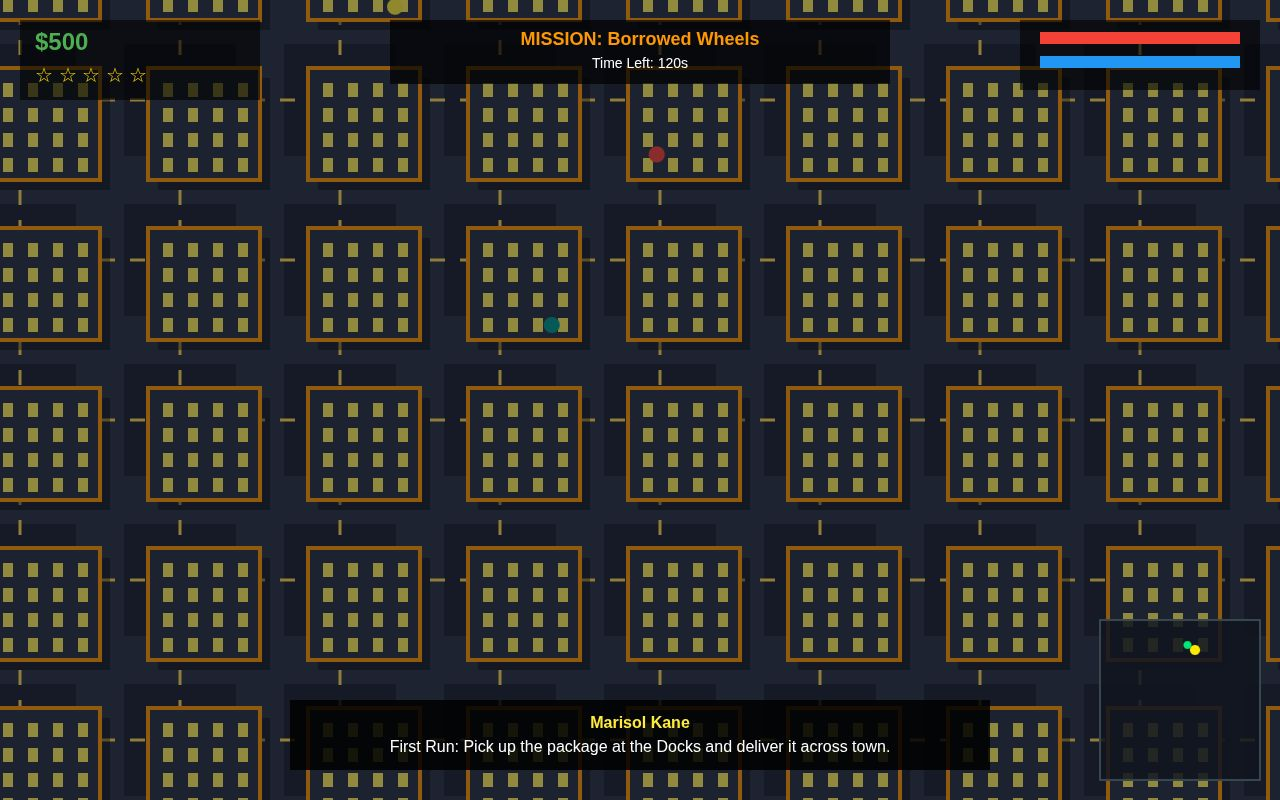
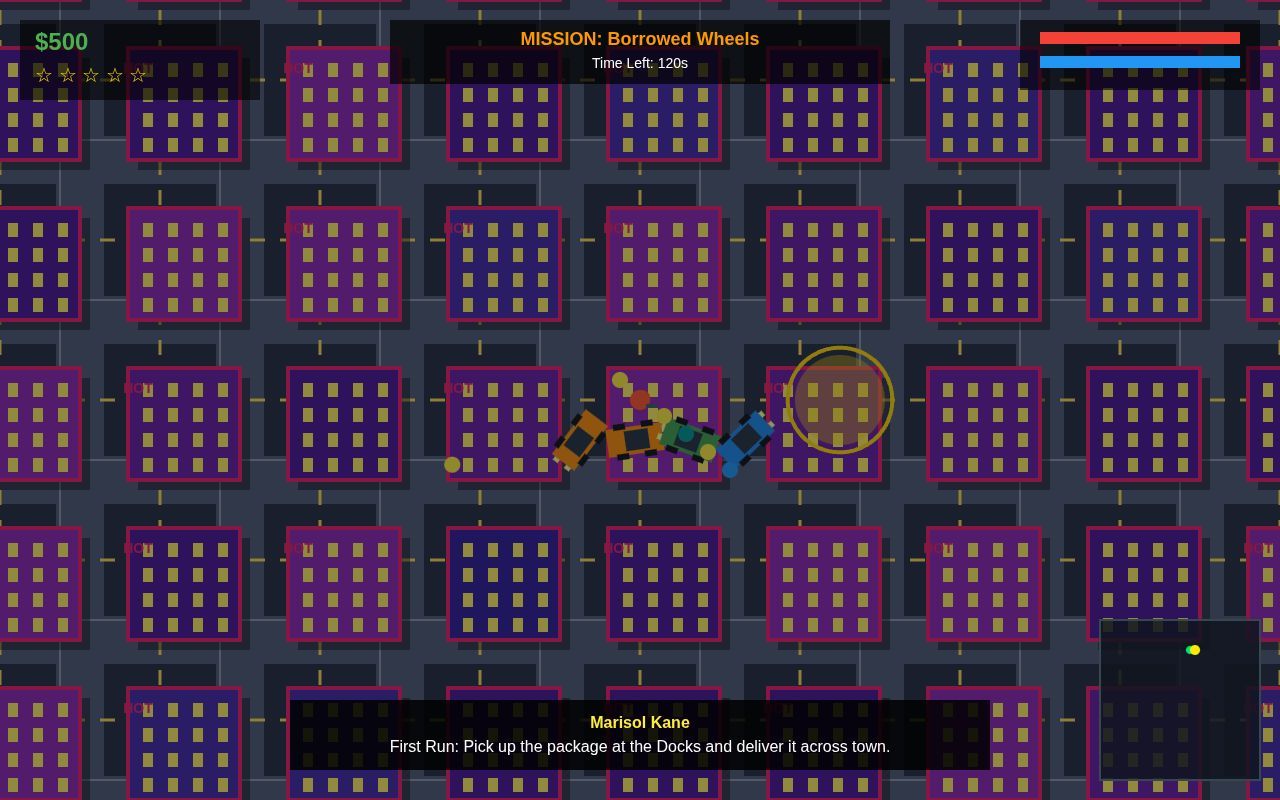
Port Azahar v4: staged screenshot vignettes and brighter city render

diff --git a/game/src/shots.js b/game/src/shots.js
@@ -5,36 +5,95 @@ export function stageShot(name, world) {
   const state = world.state;
 
   if (name === 'title') {
-    // Title screen
     return { screen: SCREEN_TITLE, best: 1000 };
   } else if (name === 'drive') {
-    // Driving mid-city among traffic, mission HUD on
-    state.player.x = 2000;
-    state.player.y = 2000;
+    state.dayTime = 0.5; // Daytime noon
+    state.player.x = 2400;
+    state.player.y = 2400;
     state.player.inCar = true;
     state.player.carIndex = 0;
-    state.cars[0].x = 2000;
-    state.cars[0].y = 2000;
-    state.cars[0].speed = 120;
+    state.camera.x = 2400;
+    state.camera.y = 2400;
+
+    if (state.cars.length > 0) {
+      state.cars[0].x = 2400;
+      state.cars[0].y = 2400;
+      state.cars[0].angle = 0;
+      state.cars[0].speed = 45;
+    }
+    for (let i = 1; i < 10; i++) {
+      if (state.cars[i]) {
+        state.cars[i].x = 2400 + (i % 3 === 1 ? 120 : -120) * (i % 3);
+        state.cars[i].y = 2400 + (i % 2 === 0 ? 140 : -140);
+        state.cars[i].speed = 35;
+      }
+    }
+    for (let i = 0; i < 8; i++) {
+      if (state.pedestrians[i]) {
+        state.pedestrians[i].x = 2370 + (i * 20) % 90;
+        state.pedestrians[i].y = 2370 + Math.floor(i / 2) * 25;
+      }
+    }
+
     state.missionActive = true;
     state.missionIndex = 0;
     return { screen: SCREEN_PLAY, best: 500 };
   } else if (name === 'chase') {
-    // Police pursuit, 3 stars, light bars
-    state.player.x = 3000;
-    state.player.y = 3000;
+    state.dayTime = 0.5; // Daytime
+    state.player.x = 3200;
+    state.player.y = 3200;
+    state.player.inCar = true;
+    state.player.carIndex = 0;
     state.player.wanted = 3;
-    state.policeUnits.push(
-      { x: 3050, y: 3000, speed: 150, angle: 0 },
-      { x: 2950, y: 3050, speed: 150, angle: Math.PI / 2 }
-    );
+    state.camera.x = 3200;
+    state.camera.y = 3200;
+
+    if (state.cars.length > 0) {
+      state.cars[0].x = 3200;
+      state.cars[0].y = 3200;
+      state.cars[0].angle = 0;
+      state.cars[0].speed = 65;
+    }
+
+    state.policeUnits = [
+      { x: 3120, y: 3200, speed: 75, angle: 0 },
+      { x: 3200, y: 3110, speed: 75, angle: Math.PI / 2 },
+      { x: 3280, y: 3250, speed: 75, angle: Math.PI }
+    ];
+
+    for (let i = 1; i < 8; i++) {
+      if (state.cars[i]) {
+        state.cars[i].x = 3200 + (i * 45) % 220 - 110;
+        state.cars[i].y = 3200 + (i * 55) % 220 - 110;
+        state.cars[i].speed = 40;
+      }
+    }
+
+    state.missionActive = true;
+    state.missionIndex = 2;
     return { screen: SCREEN_PLAY, best: 1200 };
   } else if (name === 'night') {
-    // Neon Mile at night on foot, lit windows, neon, mission pillar
-    state.dayTime = 0.1; // Night
-    state.player.x = 3500;
-    state.player.y = 1000;
+    state.dayTime = 0.05; // Night in Neon Mile
+    state.player.x = 3600;
+    state.player.y = 1200;
     state.player.inCar = false;
+    state.camera.x = 3600;
+    state.camera.y = 1200;
+
+    for (let i = 0; i < 6; i++) {
+      if (state.pedestrians[i]) {
+        state.pedestrians[i].x = 3580 + (i * 22);
+        state.pedestrians[i].y = 1180 + (i * 18);
+      }
+    }
+    for (let i = 0; i < 4; i++) {
+      if (state.cars[i]) {
+        state.cars[i].x = 3540 + i * 55;
+        state.cars[i].y = 1240;
+        state.cars[i].speed = 0; // parked
+      }
+    }
+
     state.missionActive = true;
     state.missionIndex = 1;
     return { screen: SCREEN_PLAY, best: 2500 };

diff --git a/game/src/render.js b/game/src/render.js
@@ -31,12 +31,12 @@ export function createRenderer(canvas) {
     ctx.translate(canvas.width / 2, canvas.height / 2);
     ctx.translate(-cam.x, -cam.y);
 
-    // Draw world ground / asphalt
-    ctx.fillStyle = '#1e222b';
+    // Draw world ground / blocks background
+    ctx.fillStyle = '#262c38';
     ctx.fillRect(0, 0, WORLD_SIZE, WORLD_SIZE);
 
-    // Draw grid roads
-    ctx.strokeStyle = '#2d3340';
+    // Draw grid roads (asphalt)
+    ctx.strokeStyle = '#4e596d';
     ctx.lineWidth = ROAD_WIDTH;
     ctx.lineCap = 'butt';
     for (let i = 0; i <= WORLD_SIZE; i += BLOCK_SIZE) {
@@ -45,6 +45,18 @@ export function createRenderer(canvas) {
       ctx.stroke();
       ctx.beginPath();
       ctx.moveTo(0, i); ctx.lineTo(WORLD_SIZE, i);
+      ctx.stroke();
+    }
+
+    // Draw white edge road lines / crosswalk markings
+    ctx.strokeStyle = 'rgba(255, 255, 255, 0.35)';
+    ctx.lineWidth = 2;
+    for (let i = 0; i <= WORLD_SIZE; i += BLOCK_SIZE) {
+      ctx.beginPath();
+      ctx.moveTo(i - ROAD_WIDTH/2 + 4, 0); ctx.lineTo(i - ROAD_WIDTH/2 + 4, WORLD_SIZE);
+      ctx.stroke();
+      ctx.beginPath();
+      ctx.moveTo(0, i - ROAD_WIDTH/2 + 4); ctx.lineTo(WORLD_SIZE, i - ROAD_WIDTH/2 + 4);
       ctx.stroke();
     }
 

diff --git a/game/src/world.js b/game/src/world.js
@@ -31,10 +31,17 @@ export function createWorld(random) {
       else if (cx >= 5120) district = DISTRICTS.HILLS;
 
       const height = Math.floor(20 + random() * 80);
+      const palette = district === DISTRICTS.NEON_MILE ? ['#4a148c', '#6a1b9a', '#8e24aa', '#311b92', '#4527a0'] :
+                      district === DISTRICTS.OLD_TOWN ? ['#b71c1c', '#d32f2f', '#8d6e63', '#6d4c41', '#a1887f'] :
+                      district === DISTRICTS.MARINA ? ['#00838f', '#00acc1', '#0097a7', '#006064', '#00838f'] :
+                      district === DISTRICTS.HILLS ? ['#2e7d32', '#388e3c', '#43a047', '#1b5e20', '#558b2f'] :
+                      ['#37474f', '#455a64', '#546e7a', '#78909c', '#37474f'];
+      const buildingColor = palette[Math.floor(random() * palette.length)];
+
       buildings.push({
         x, y, w, h, height,
         district: district.name,
-        color: district.color,
+        color: buildingColor,
         accent: district.accent,
         hasNeon: district === DISTRICTS.NEON_MILE && random() > 0.5,
         hasLights: random() > 0.3
